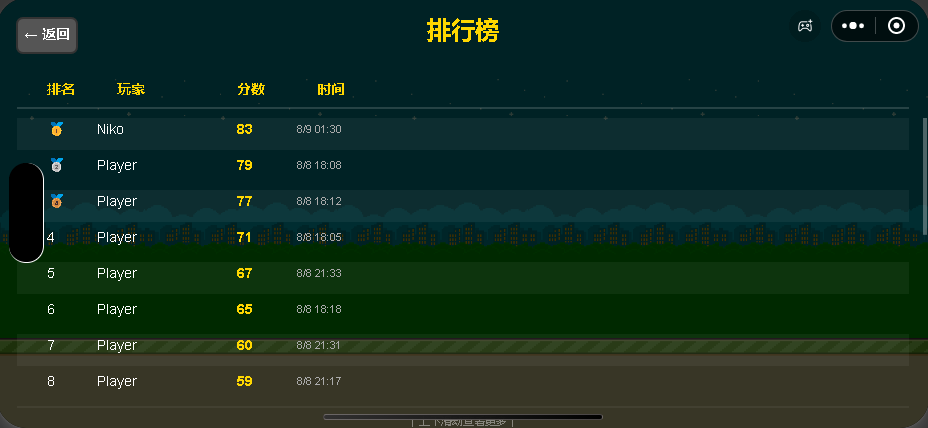
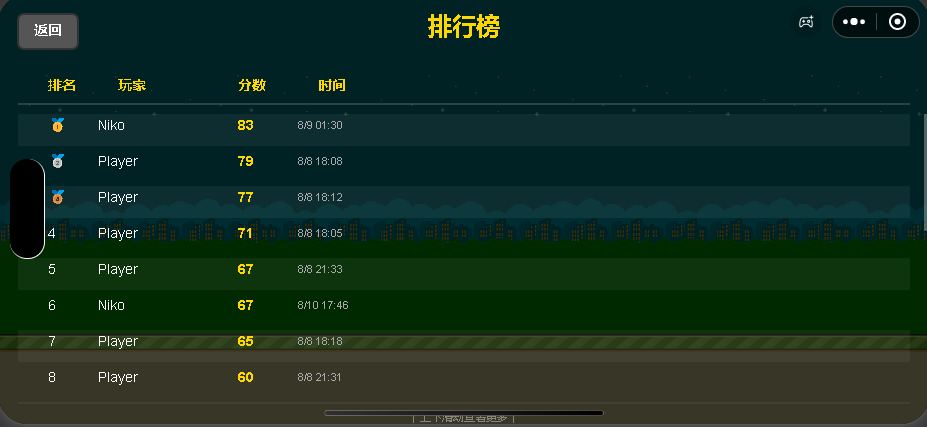
fix: 清理空玩家昵称记录，更新 README 文档
- 修复 ScoreService 清理空玩家昵称记录不彻底的问题

- 排行榜返回按钮去掉左箭头

- 更新 README 添加 cleanup API 接口、test_api.ps1 说明

diff --git a/front/js/runtime/gameinfo.js b/front/js/runtime/gameinfo.js
@@ -366,7 +366,7 @@ export default class GameInfo extends Emitter {
     ctx.font = 'bold 14px Arial';
     ctx.textAlign = 'center';
     ctx.textBaseline = 'middle';
-    ctx.fillText('← 返回', (backBtn.startX + backBtn.endX) / 2, (backBtn.startY + backBtn.endY) / 2);
+    ctx.fillText('返回', (backBtn.startX + backBtn.endX) / 2, (backBtn.startY + backBtn.endY) / 2);
 
     const data = this._leaderboardData;
     if (this._leaderboardLoading) {

diff --git a/back/back/Services/ScoreService.cs b/back/back/Services/ScoreService.cs
@@ -55,8 +55,10 @@ public class ScoreService
         if (playerNames == null || playerNames.Count == 0)
             return 0;
 
+        /* 同时也清理玩家名称为空或 null 的记录 */
         var toDelete = await _db.HighScores
-            .Where(s => playerNames.Contains(s.PlayerName))
+            .Where(s => playerNames.Contains(s.PlayerName)
+                     || (playerNames.Contains("Anonymous") && (s.PlayerName == null || s.PlayerName == "")))
             .ToListAsync();
 
         if (toDelete.Count == 0)

diff --git a/README.md b/README.md
@@ -100,7 +100,8 @@ Flappy-Bird/
 │   ├── sql/init.sql              # 数据库初始化脚本
 │   └── Program.cs                # 应用入口
 │
-├── test_props.py                 # 道具位置验证脚本
+├── test_props.py                 # 道具位置验证脚本（Python）
+├── test_api.ps1                  # 后端 API 自动化测试脚本（PowerShell）
 └── AGENTS.md                     # 项目开发规范
 ```
 
@@ -171,6 +172,7 @@ netsh advfirewall firewall add rule name="FlappyBird" dir=in action=allow protoc
 |:---|:---|:---|
 | POST | `/api/score` | 提交分数 |
 | GET | `/api/score?limit=10` | 获取排行榜（最多 20 名） |
+| POST | `/api/score/cleanup` | 清理测试数据（按玩家名称列表删除） |
 | POST | `/api/game/start` | 开始游戏（旧版服务端模式） |
 | POST | `/api/game/{id}/tick` | 游戏帧推进（旧版） |
 | POST | `/api/game/{id}/flap` | 跳跃（旧版） |
@@ -197,6 +199,12 @@ netsh advfirewall firewall add rule name="FlappyBird" dir=in action=allow protoc
 ```bash
 cd back/back
 npx newman run postman/FlappyBird_API_Collection.json
+```
+
+### API 测试（PowerShell）
+
+```powershell
+.\test_api.ps1          # 测试所有 API 接口，完成后自动清理测试数据
 ```
 
 ### 道具位置验证
